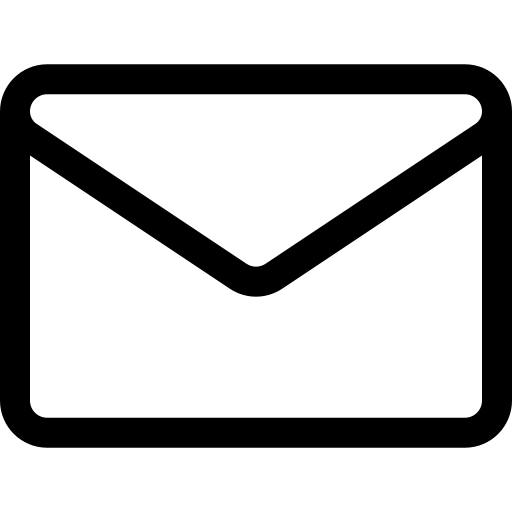
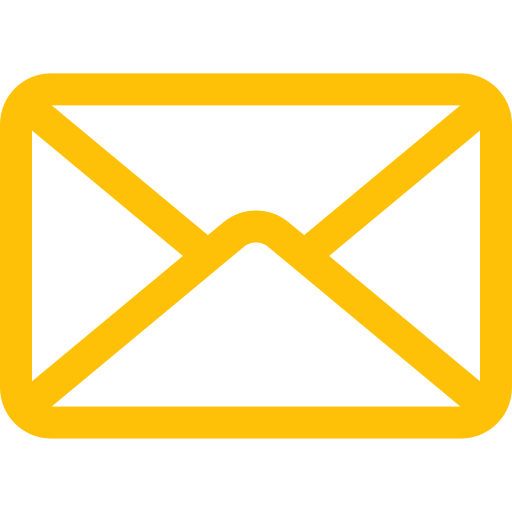
Updates

diff --git a/style.css b/style.css
@@ -25,16 +25,6 @@
 #blp{
     padding-right: 50px;
 }
-.phone{
-    padding: 50px 5px 0px 5px;
-    display: flex;
-    justify-content: space-between;
-}
-.email{
-    padding: 50px 0px 0px 5px;
-    display: flex;
-    justify-content: space-between;
-}
 #ul1{
     list-style: none;
 }
@@ -71,7 +61,7 @@ li{
     justify-content: space-between;
 }
 #black:hover{
-    background-color: red;
+    background-color: rgb(244, 196, 24);
     color: black;
 }
 #yellow:hover{
@@ -115,12 +105,22 @@ button{
     margin: 15px;
     height: auto;
 }
+.phone{
+    padding: 50px 0px 0px 5px;
+    display: flex;
+    justify-content: space-between;
+    color: black;
+    width: 25px;
+    height: 25px;
+}
 .email{
+    padding: 50px 0px 0px 5px;
+    display: flex;
+    justify-content: space-between;
     color: black;
     width: 25px;
     height: 25px;
 }
 #email{
     padding-right: 10px;
-    fill: yellow;
 }

diff --git a/landingpage.html b/landingpage.html
@@ -28,8 +28,8 @@
             <p>Landing page for builders</p>
         </div>
         <div class="phone">
-            <img src="" alt="phone"/> Phone Number <br>
-            1-888-123-456
+            <img src="/Images/phone.png" alt="phone" id="email"/> 
+            Phone Number <br> 234-907-672-7482
         </div>
         <div class="email">
             <img src="/Images/email.png" alt="Email" id="email"/> Email <br>
